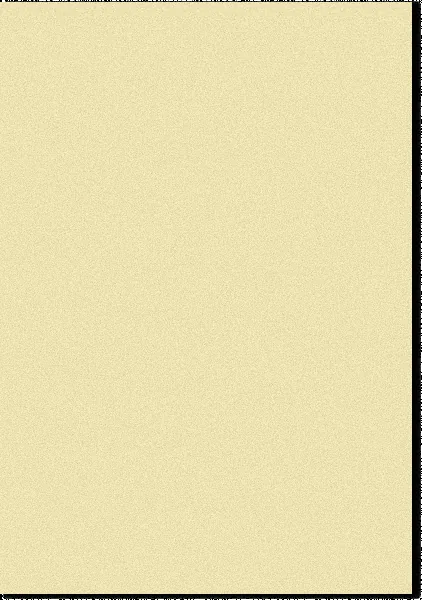
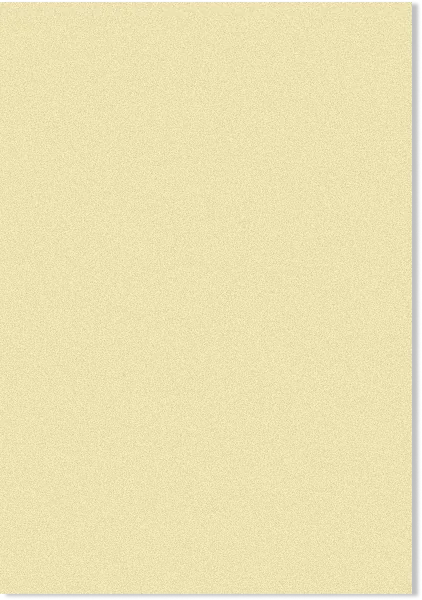
Add menu/content attention swap, refine manifesto and hero
Bascule d'attention entre le rail et la page, calquee sur le
comportement inspecte sur fieldstudiesflora : au repos le menu est a
0.2 d'opacite et la page a 1 ; au survol du menu les valeurs
s'inversent. Transition `opacity .6s ease-out .3s` — le delai evite un
clignotement quand la souris traverse le bord gauche de l'ecran.

`:has()` plutot qu'une classe posee en JS : le survol est un etat
purement visuel. Un selecteur de voisinage comme chez eux ne suffirait
pas, le rail vivant a l'interieur d'une section. `focus-within` couvre
la navigation au clavier.

Egalement :
- contenu du menu centre dans la demi-page de droite (marges 100/100)
- fig.06 reconvertie en conservant son canal alpha : la conversion en
  RGB aplatissait l'ombre portee sur du noir, d'ou le lisere sombre
- manifeste : interligne resserre (1.45 -> 1.25), declaration alignee a
  gauche au lieu d'etre justifiee, et les deux textes partagent un
  conteneur commun pour que leurs bords gauches coincident
- note du manifeste sur deux lignes equilibrees (446 / 461 px)
- note d'intention du hero descendue

Changed region(s): [[0.0, 0.0, 1.0, 1.0]]

diff --git a/src/styles/global.css b/src/styles/global.css
@@ -126,6 +126,22 @@
   html.rail-docked [data-services-menu] ~ *,
   html.rail-docked footer {
     padding-left: var(--rail-width);
+    transition: opacity 0.6s ease-out 0.3s;
+  }
+
+  /**
+   * Bascule d'attention entre le menu et la page.
+   *
+   * Au repos, c'est le menu qui s'efface (règle portée par `ServicesMenu`).
+   * Dès qu'on le vise, il revient au premier plan et c'est la page qui recule.
+   *
+   * `:has()` plutôt qu'une classe posée en JS : le survol est un état purement
+   * visuel, il n'a pas à transiter par un écouteur d'évènements. Le rail vivant
+   * à l'intérieur d'une section, un sélecteur de voisinage ne suffirait pas.
+   */
+  html.rail-docked:has([data-services-rail]:hover) [data-services-menu] ~ *,
+  html.rail-docked:has([data-services-rail]:hover) footer {
+    opacity: 0.2;
   }
 
   /** Bloc sombre : inverse les rôles, tout le contenu enfant suit. */
@@ -210,7 +226,7 @@
 @utility type-declaration {
   font-family: var(--font-titre);
   font-size: clamp(1.25rem, 2.1vw, 1.9rem);
-  line-height: 1.45;
+  line-height: 1.25;
   letter-spacing: -0.01em;
   font-weight: 400;
 }
